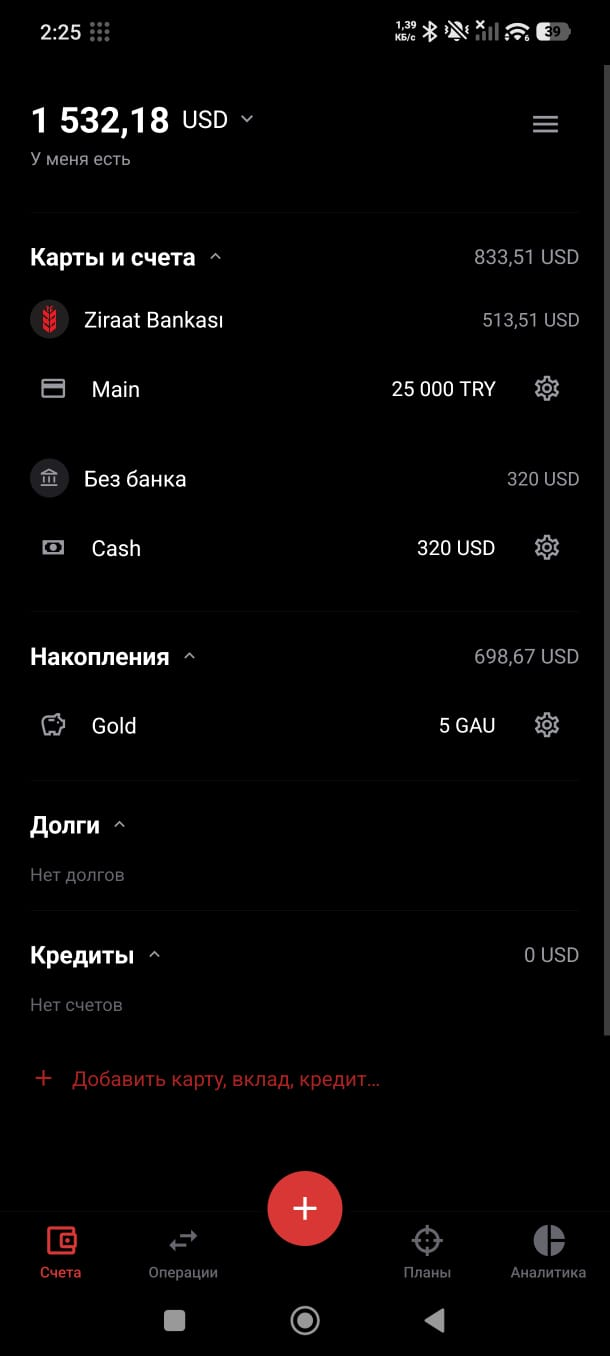
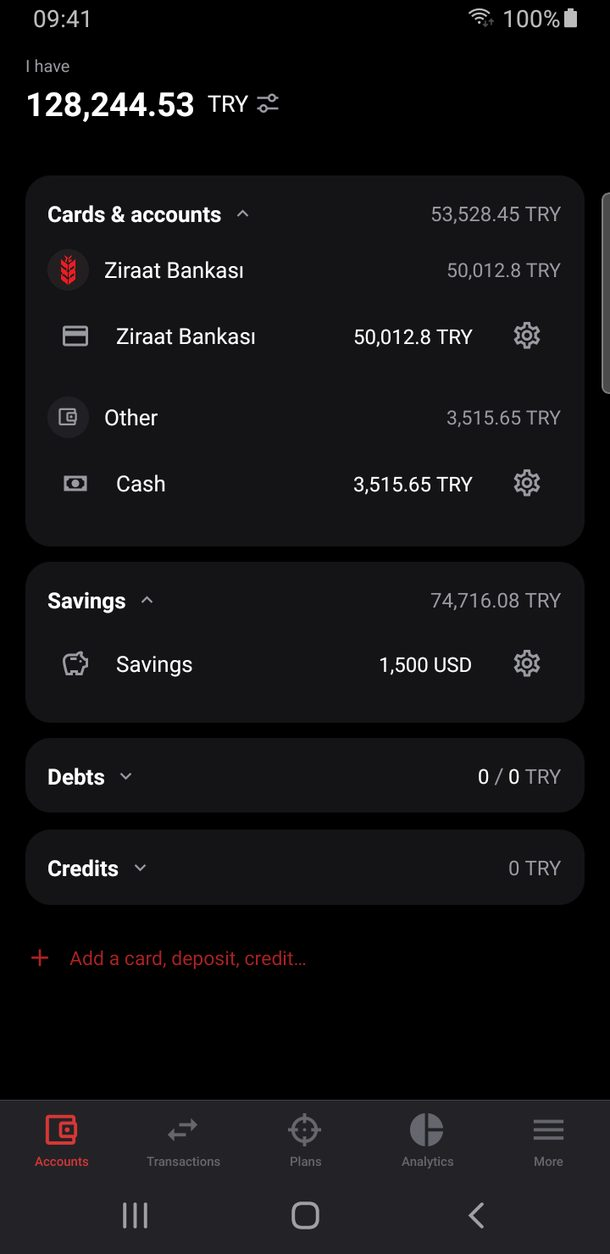
site: new screenshots

diff --git a/_layouts/default.html b/_layouts/default.html
@@ -131,10 +131,10 @@
       <h2 id="screens-title">{{ d.interface_title }}</h2>
     </div>
     <div class="screens" tabindex="0" aria-label="{{ d.interface_title }}">
-      {%- assign files = "accounts|new_transaction|plans|transactions" | split: "|" -%}
+      {%- assign files = "accounts|transactions|new_transaction|plans|analytics|shopping" | split: "|" -%}
       {%- for f in files %}
       <figure class="phone">
-        <img src="/screen/{{ f }}.jpeg" alt="{{ site.app_name }}: {{ d.shots[forloop.index0] }}" width="305" height="678" loading="lazy">
+        <img src="/screen/{{ f }}.jpeg" alt="{{ site.app_name }}: {{ d.shots[forloop.index0] }}" width="305" height="627" loading="lazy">
         <figcaption>{{ d.shots[forloop.index0] }}</figcaption>
       </figure>
       {%- endfor %}
